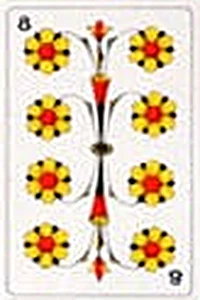
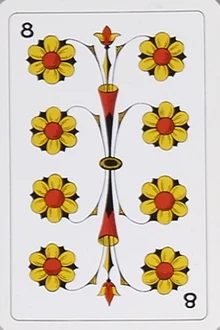
fix: Change cards and adapt pot calculation

diff --git a/web/regeln.html b/web/regeln.html
@@ -48,7 +48,7 @@
       <h2>Ablauf einer Runde</h2>
 
       <h3>1. Einsatz</h3>
-      <p>Alle zahlen den Grundeinsatz (z.&nbsp;B. 1 Punkt) in den Pot. Der Pot fasst höchstens 20 Punkte, alles darüber kommt in den <strong>Nebenpot</strong>.</p>
+      <p>Einsatz bezahlt wird nur, wenn <strong>Pot und Nebenpot leer</strong> sind, also in der ersten Runde und in jeder Obli-Runde: Dann zahlen alle den Grundeinsatz (z.&nbsp;B. 1 Punkt) in den Pot. In allen anderen Runden wird um das gespielt, was durch Strafzahlungen im Pot liegt. Der Pot fasst höchstens 20 Punkte, alles darüber kommt in den <strong>Nebenpot</strong>.</p>
 
       <h3>2. Geben</h3>
       <p>Die Person, die an der Reihe ist, mischt und gibt jedem zuerst <strong>2 Karten</strong> verdeckt. Dann wird die nächste Karte offen hingelegt, ihre Farbe ist <strong>Trumpf</strong>. Danach bekommt jeder nochmals 2 Karten. Nach jeder Runde gibt die nächste Person.</p>
@@ -92,9 +92,9 @@
       <p>Es werden 4 Stiche gespielt. Der <strong>Käufer spielt aus</strong>, danach spielt jeweils aus, wer den letzten Stich gemacht hat.</p>
       <ol>
         <li><strong>Farbe angeben:</strong> Wer die ausgespielte Farbe hat, muss sie legen.</li>
-        <li><strong>Trumpfen:</strong> Wer die Farbe nicht hat, muss einen Trumpf legen.</li>
-        <li><strong>Übertrumpfen:</strong> Liegt bereits ein Trumpf, muss man höher trumpfen, wenn man kann. Kann man nicht, darf man untertrumpfen.</li>
-        <li>Nur wer weder die Farbe noch einen Trumpf hat, darf eine beliebige Karte legen.</li>
+        <li><strong>Trumpfen:</strong> Wer die Farbe nicht hat, muss einen Trumpf legen, nichts anderes.</li>
+        <li><strong>Übertrumpfen:</strong> Liegt bereits ein Trumpf, muss man einen höheren Trumpf legen.</li>
+        <li><strong>Frei:</strong> Wer die Farbe nicht hat und keinen (höheren) Trumpf, darf eine beliebige Karte legen.</li>
       </ol>
       <p>Den Stich gewinnt der höchste Trumpf, sonst die höchste Karte der ausgespielten Farbe.</p>
 
@@ -118,7 +118,7 @@
       </table>
       <ul>
         <li><strong>Wer sein Soll verfehlt</strong>, bekommt nichts und zahlt nur: der Käufer den doppelten, ein Mitgeher den einfachen Pot. Sein Anteil geht an die anderen.</li>
-        <li>Die Strafzahlungen bilden den neuen Pot. Was über 20 geht, kommt in den Nebenpot.</li>
+        <li>Die Strafzahlungen bilden den neuen Pot (Beispiel erste Runde mit 4 Spielern: Pot 4, verliert der Käufer, zahlt er 8, und in der nächsten Runde liegen 8 im Pot). Was über 20 geht, kommt in den Nebenpot.</li>
         <li>Nach der Abrechnung wird der Pot aus dem Nebenpot wieder auf 20 aufgefüllt, solange dort etwas liegt.</li>
         <li>Sind danach Pot und Nebenpot leer, ist die nächste Runde eine Obli-Runde.</li>
       </ul>

diff --git a/web/sw.js b/web/sw.js
@@ -1,6 +1,6 @@
 // Offline-Fähigkeit: App-Dateien und Kartenbilder werden zwischengespeichert.
 // Bei jeder Änderung an den Dateien VERSION erhöhen.
-const VERSION = 'hacken-v3';
+const VERSION = 'hacken-v4';
 const SHELL = ["./", "index.html", "regeln.html", "styles.css", "js/app.js", "js/engine.js", "js/net.js", "js/vendor/peerjs.min.js", "icon.svg", "manifest.webmanifest"];
 const CARDS = ["cards/agm/00.webp", "cards/agm/01.webp", "cards/agm/02.webp", "cards/agm/03.webp", "cards/agm/04.webp", "cards/agm/05.webp", "cards/agm/06.webp", "cards/agm/07.webp", "cards/agm/08.webp", "cards/agm/10.webp", "cards/agm/11.webp", "cards/agm/12.webp", "cards/agm/13.webp", "cards/agm/14.webp", "cards/agm/15.webp", "cards/agm/16.webp", "cards/agm/17.webp", "cards/agm/18.webp", "cards/agm/20.webp", "cards/agm/21.webp", "cards/agm/22.webp", "cards/agm/23.webp", "cards/agm/24.webp", "cards/agm/25.webp", "cards/agm/26.webp", "cards/agm/27.webp", "cards/agm/28.webp", "cards/agm/30.webp", "cards/agm/31.webp", "cards/agm/32.webp", "cards/agm/33.webp", "cards/agm/34.webp", "cards/agm/35.webp", "cards/agm/36.webp", "cards/agm/37.webp", "cards/agm/38.webp", "cards/agm/sym0.webp", "cards/agm/sym1.webp", "cards/agm/sym2.webp", "cards/agm/sym3.webp", "cards/jegen/00.webp", "cards/jegen/01.webp", "cards/jegen/02.webp", "cards/jegen/03.webp", "cards/jegen/04.webp", "cards/jegen/05.webp", "cards/jegen/06.webp", "cards/jegen/07.webp", "cards/jegen/08.webp", "cards/jegen/10.webp", "cards/jegen/11.webp", "cards/jegen/12.webp", "cards/jegen/13.webp", "cards/jegen/14.webp", "cards/jegen/15.webp", "cards/jegen/16.webp", "cards/jegen/17.webp", "cards/jegen/18.webp", "cards/jegen/20.webp", "cards/jegen/21.webp", "cards/jegen/22.webp", "cards/jegen/23.webp", "cards/jegen/24.webp", "cards/jegen/25.webp", "cards/jegen/26.webp", "cards/jegen/27.webp", "cards/jegen/28.webp", "cards/jegen/30.webp", "cards/jegen/31.webp", "cards/jegen/32.webp", "cards/jegen/33.webp", "cards/jegen/34.webp", "cards/jegen/35.webp", "cards/jegen/36.webp", "cards/jegen/37.webp", "cards/jegen/38.webp", "cards/jegen/sym0.webp", "cards/jegen/sym1.webp", "cards/jegen/sym2.webp", "cards/jegen/sym3.webp"];
 

diff --git a/web/js/engine.js b/web/js/engine.js
@@ -14,7 +14,7 @@ export const DEFAULTS = {
   name: 'Du',
   bots: 3,          // Computer-Gegner im Einzelspiel (2–5 → 3–6 Spieler)
   startChips: 100,
-  ante: 1,          // Grundeinsatz pro Spieler und Runde
+  ante: 1,          // Grundeinsatz pro Spieler – nur wenn Pot und Nebenpot leer sind (Obli-Runde)
   potMax: 20,       // Pot-Obergrenze, Rest geht in den Nebenpot
   speed: 'normal',
   deck: 'agm',
@@ -101,11 +101,11 @@ export class Hacken {
     const lead = this.trick[0].c.s;
     const follow = h.filter((c) => c.s === lead);
     if (follow.length) return follow;
-    const trumps = h.filter((c) => c.s === this.trump);
-    if (!trumps.length) return h.slice();
+    // Farbe nicht vorhanden: Trumpf legen; liegt schon Trumpf, muss er höher sein.
+    // Wer keinen (höheren) Trumpf hat, darf frei legen.
     const high = Math.max(-1, ...this.trick.filter((t) => t.c.s === this.trump).map((t) => t.c.r));
-    const over = trumps.filter((c) => c.r > high);
-    return over.length ? over : trumps;
+    const over = h.filter((c) => c.s === this.trump && c.r > high);
+    return over.length ? over : h.slice();
   }
   trickWinner() {
     const lead = this.trick[0].c.s;
@@ -208,8 +208,11 @@ export class Hacken {
     this.roundNo++;
     this.dealer = (this.dealer + 1) % this.n;
     const D = this.dealer, order = this.seatsFrom(D), dealOrder = this.seatsFrom(D + 1);
-    for (const p of this.players) p.chips = round2(p.chips - this.cfg.ante);
-    this.addPot(this.cfg.ante * this.n);
+    // Einsatz nur, wenn Pot und Nebenpot leer sind – sonst spielt man um die Strafzahlungen im Pot
+    if (obli) {
+      for (const p of this.players) p.chips = round2(p.chips - this.cfg.ante);
+      this.addPot(this.cfg.ante * this.n);
+    }
 
     // Geben: je 2 Karten, Trumpf aufdecken, nochmals je 2 Karten
     this.phase = 'deal';

diff --git a/web/js/app.js b/web/js/app.js
@@ -251,7 +251,7 @@ async function openSheet(kind) {
     showSheet('settings', sheetHead('Einstellungen') + `<form class="sheet-body form">
       ${mode === 'solo' ? `<label>Dein Name<input name="name" maxlength="14" value="${esc(s.name)}"></label>` : ''}
       ${mode !== 'client' ? `<label>Tempo der Computer-Gegner<select name="speed">${opt('slow', s.speed, 'Gemütlich')}${opt('normal', s.speed, 'Normal')}${opt('fast', s.speed, 'Schnell')}</select></label>` : ''}
-      <label>Kartenset<select name="deck">${opt('agm', s.deck, 'AGMüller (Schaffhauser)')}${opt('jegen', s.deck, 'Elsi Jegen (Frauezogg)')}</select></label>
+      <label>Kartenset<select name="deck">${opt('agm', s.deck, 'AGMüller-Bilder, Zahlen von Elsi Jegen')}${opt('jegen', s.deck, 'Elsi Jegen (Frauezogg)')}</select></label>
       ${soloPart}
       <div class="form-actions">
         ${mode === 'solo' ? '' : '<button type="button" class="btn danger" data-save="leave">Spiel verlassen</button>'}
@@ -280,7 +280,7 @@ async function openSheet(kind) {
 }
 function numberFields(s) {
   return `<label>Startguthaben<input name="startChips" type="number" min="10" max="10000" value="${s.startChips}"></label>
-    <label>Grundeinsatz<input name="ante" type="number" min="1" max="100" value="${s.ante}"></label>
+    <label>Grundeinsatz (nur in Obli-Runden)<input name="ante" type="number" min="1" max="100" value="${s.ante}"></label>
     <label>Pot-Maximum<input name="potMax" type="number" min="4" max="1000" value="${s.potMax}"></label>`;
 }
 function readNumbers(f) {
